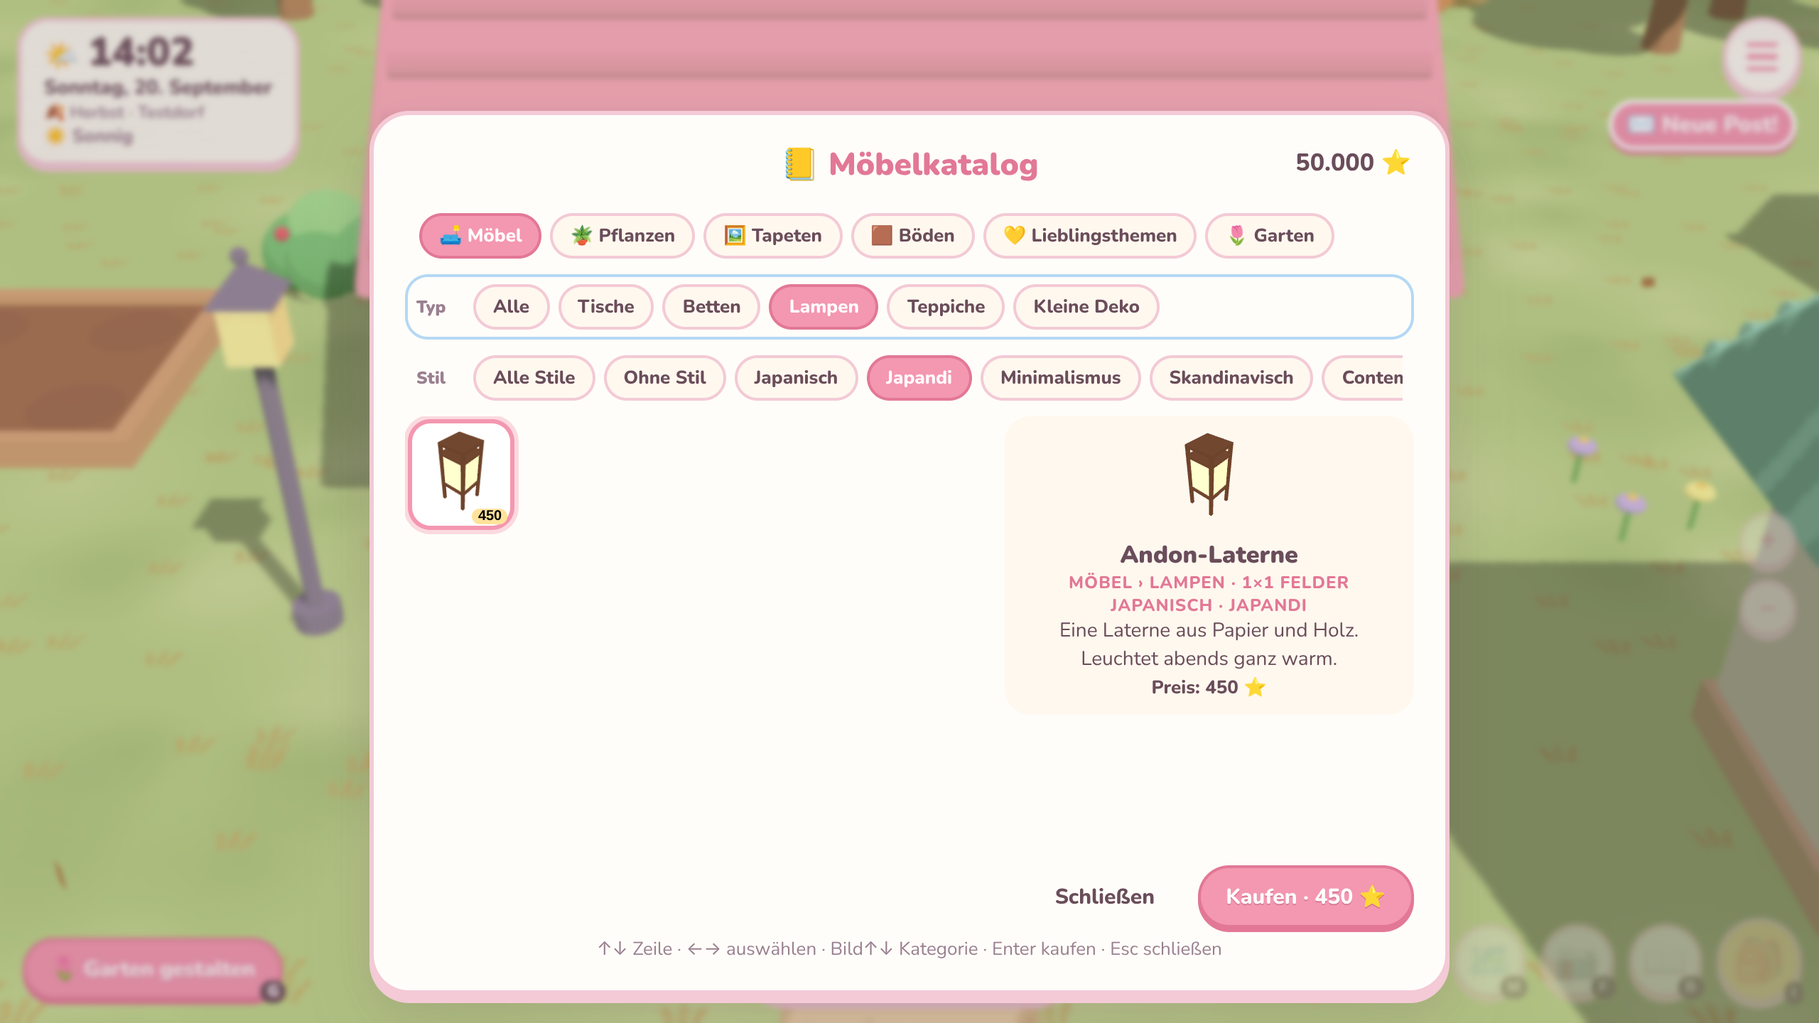
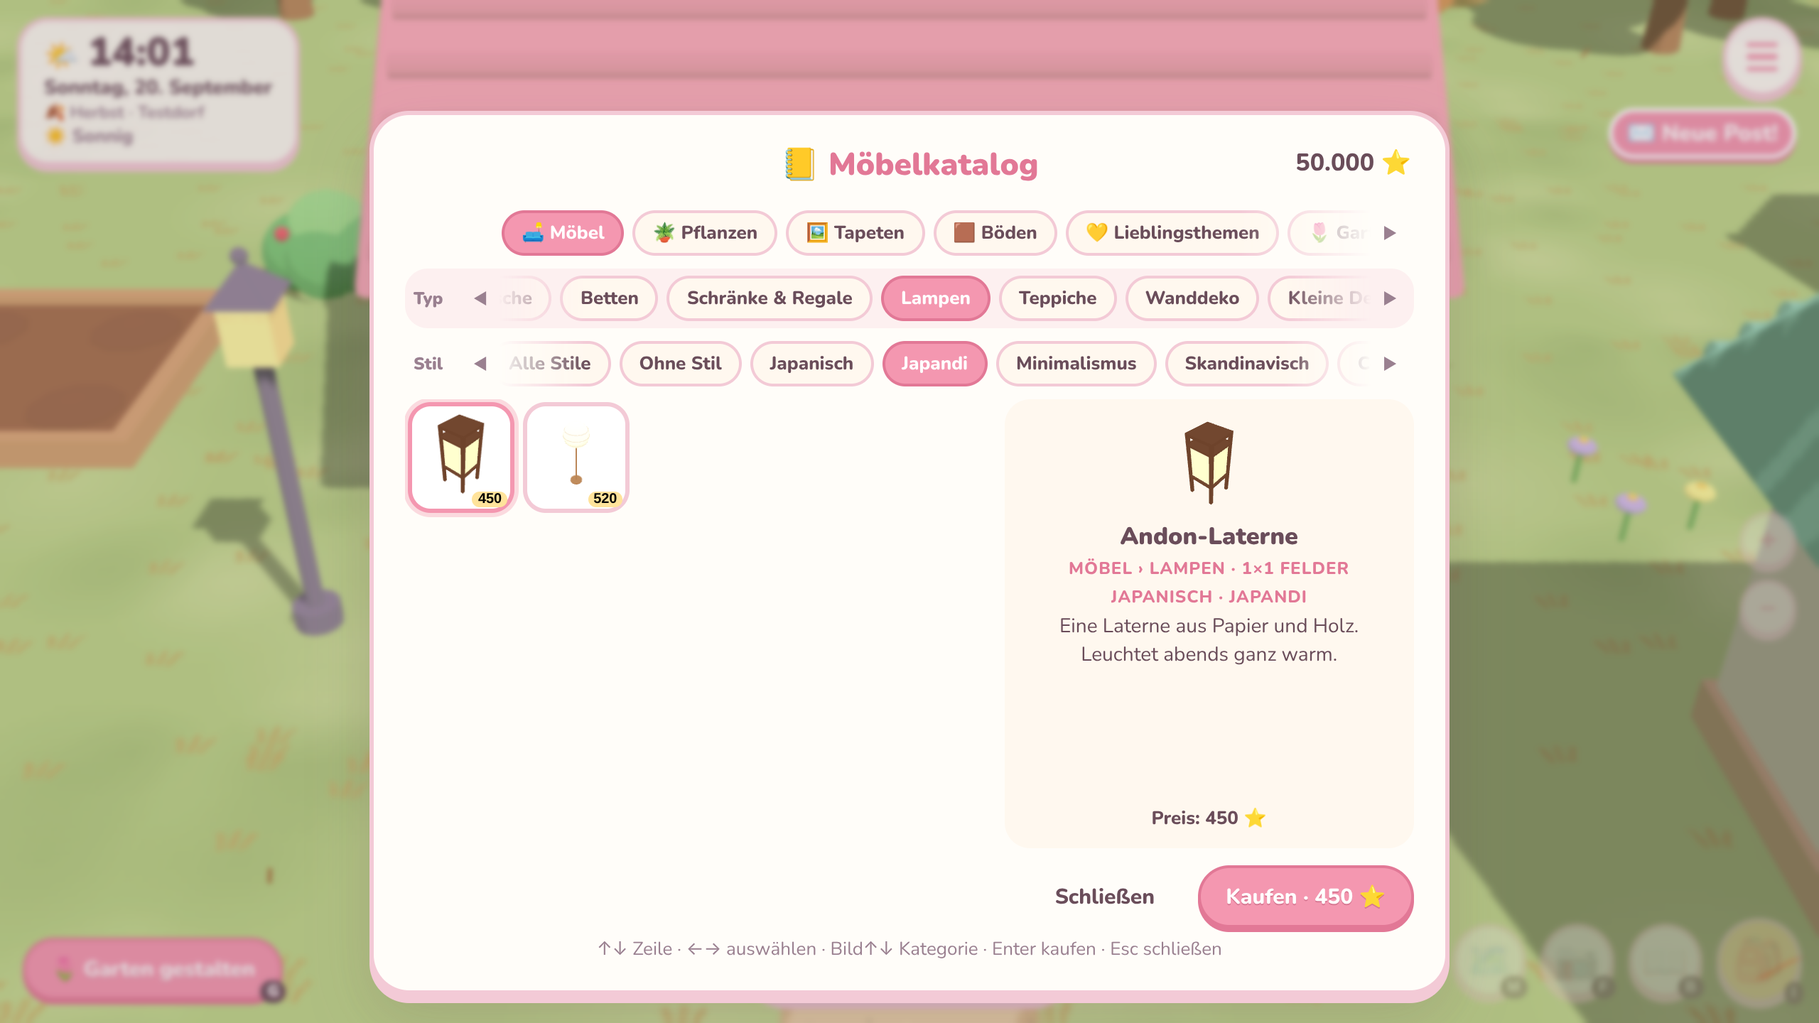
Katalog-Feinschliff: feste Anordnung, dezente Markierung, ◀ ▶ statt Scrollbalken (#121)
- Typ- und Stilzeile bleiben immer stehen (ausgegraut, wenn leer)
- Detailspalte mit festen Zeilen (Text gekürzt, Farbplatz reserviert)
- aktive Zeile zart in der Akzentfarbe hinterlegt statt hellblau umrandet
- Chip-Zeilen ohne Scrollbalken: Pfeile am Rand, Ausblenden, aktiver Chip zentriert
- Stil-Chips zeigen ihre Kurzbeschreibung als Tooltip

Claude-Session: https://claude.ai/code/session_01ThTYhPHTkGtFy4ue8CC8z3

diff --git a/src/ui/CatalogPanel.tsx b/src/ui/CatalogPanel.tsx
@@ -5,6 +5,7 @@
  * Alles geht mit den Pfeiltasten (Zustandsmaschine in `catalogNav.ts`), mit der Maus genauso.
  * Gekauftes landet in der Tasche – oder beim Einrichten gleich in Linas Hand.
  */
+import type { ComponentChildren } from 'preact';
 import { useEffect, useLayoutEffect, useRef, useState } from 'preact/hooks';
 import { CATEGORY_BY_ID, DESIGN_STYLE_BY_ID } from '../data/catalog';
 import { CURRENCY } from '../data/items';
@@ -117,11 +118,13 @@ export function CatalogPanel({ session }: { session: Session }) {
       if (n > 0 && n !== cols) setCols(n);
       g.querySelector<HTMLElement>('.catalog-cell.selected')?.scrollIntoView({ block: 'nearest' });
     }
-    for (const el of document.querySelectorAll<HTMLElement>('.catalog .filter-strip .chip.active')) el.scrollIntoView({ block: 'nearest', inline: 'nearest' });
+    for (const el of document.querySelectorAll<HTMLElement>('.catalog .filter-strip .chip.active')) el.scrollIntoView({ block: 'nearest', inline: 'center' });
   });
 
   const pick = (patch: Partial<NavState>) => setNav({ ...nav, ...patch });
-  const rowClass = (r: NavRow) => `catalog-row ${nav.row === r ? 'nav-active' : ''}`;
+  const rowClass = (r: NavRow, empty = false) => `catalog-row ${nav.row === r ? 'nav-active' : ''} ${empty ? 'empty' : ''}`;
+  const noStyleHere = styles.length === 0;
+  const noTypeHere = types.length === 0;
 
   return (
     <div class="modal-layer" onPointerUp={(e) => e.target === e.currentTarget && close()}>
@@ -129,38 +132,44 @@ export function CatalogPanel({ session }: { session: Session }) {
         <h2 class="card-title">📒 Möbelkatalog</h2>
         <span class="money catalog-money">{formatMoney(money)}</span>
         <div class={`${rowClass('kategorie')} row-kat`}>
-          <div class="filter-strip" onWheel={wheelSideways}>
+          <span class="row-label" />
+          <ChipStrip>
             {categories.map((c) => (
               <button key={c} tabIndex={-1} class={`chip ${filter.category === c ? 'active' : ''}`} onClick={() => pick({ row: 'kategorie', category: c, type: 'alle', index: 0, variant: 0 })}>
                 {CATEGORY_BY_ID[c].icon} {CATEGORY_BY_ID[c].name}
               </button>
             ))}
-          </div>
+          </ChipStrip>
         </div>
-        {types.length > 0 && (
-          <div class={`${rowClass('typ')} row-typ`}>
-            <span class="row-label">Typ</span>
-            <div class="filter-strip" onWheel={wheelSideways}>
-              {types.map((t) => (
+        {/* Typ- und Stil-Zeile stehen immer da – gibt es nichts zu wählen, sind sie ausgegraut (das Fenster springt nicht) */}
+        <div class={`${rowClass('typ', noTypeHere)} row-typ`}>
+          <span class="row-label">Typ</span>
+          <ChipStrip>
+            {noTypeHere ? (
+              <span class="chip small disabled">{CATEGORY_BY_ID[filter.category].types.length === 0 ? 'Keine Typen' : 'Nur ein Typ'}</span>
+            ) : (
+              types.map((t) => (
                 <button key={t} tabIndex={-1} class={`chip small ${filter.type === t ? 'active' : ''}`} onClick={() => pick({ row: 'typ', type: t, index: 0, variant: 0 })}>
                   {typeLabel(filter.category, t)}
                 </button>
-              ))}
-            </div>
-          </div>
-        )}
-        {styles.length > 0 && (
-          <div class={`${rowClass('stil')} row-stil`}>
-            <span class="row-label">Stil</span>
-            <div class="filter-strip" onWheel={wheelSideways}>
-              {styles.map((s: StyleFilter) => (
-                <button key={s} tabIndex={-1} class={`chip small ${filter.style === s ? 'active' : ''}`} onClick={() => pick({ row: 'stil', style: s, index: 0, variant: 0 })}>
-                  {styleFilterLabel(s)}
+              ))
+            )}
+          </ChipStrip>
+        </div>
+        <div class={`${rowClass('stil', noStyleHere)} row-stil`}>
+          <span class="row-label">Stil</span>
+          <ChipStrip>
+            {noStyleHere ? (
+              <span class="chip small disabled">Hier ohne Stil</span>
+            ) : (
+              styles.map((st: StyleFilter) => (
+                <button key={st} tabIndex={-1} class={`chip small ${filter.style === st ? 'active' : ''}`} title={st !== 'alle' && st !== 'ohne' ? DESIGN_STYLE_BY_ID[st].blurb : undefined} onClick={() => pick({ row: 'stil', style: st, index: 0, variant: 0 })}>
+                  {styleFilterLabel(st)}
                 </button>
-              ))}
-            </div>
-          </div>
-        )}
+              ))
+            )}
+          </ChipStrip>
+        </div>
         <div ref={gridRef} class={`book-grid catalog-grid ${nav.row === 'raster' ? 'nav-active' : ''}`}>
           {list.length === 0 && <p class="soft center catalog-empty">Hier gibt es gerade nichts – schau in einer anderen Ecke des Katalogs!</p>}
           {list.map((e, i) => (
@@ -170,35 +179,22 @@ export function CatalogPanel({ session }: { session: Session }) {
             </button>
           ))}
         </div>
-        <div class="item-detail">
-          {sel && v ? (
-            <>
-              <img src={itemIconUrl(v.itemId, 96)} alt="" />
-              <div>
-                <div class="item-name">{sel.name}</div>
-                <div class="item-cat">
-                  {CATEGORY_BY_ID[sel.meta.category].name}
-                  {sel.meta.type ? ` › ${typeLabel(sel.meta.category, sel.meta.type)}` : ''}
-                  {sel.size ? ` · ${sel.size}` : ''}
-                </div>
-                <div class="item-cat soft">{styleLine(sel)}</div>
-                <div class="item-desc">{sel.description}</div>
-                {sel.variants.length > 1 && (
-                  <div class={`variant-row ${nav.row === 'farbe' ? 'nav-active' : ''}`}>
-                    {sel.variants.map((x, i) => (
-                      <button key={x.itemId} tabIndex={-1} class={`swatch ${i === nav.variant ? 'active' : ''}`} style={{ background: x.color ?? undefined }} title={x.label} aria-label={x.label} onClick={() => pick({ row: 'farbe', variant: i })} />
-                    ))}
-                    <span class="soft">{v.label}</span>
-                  </div>
-                )}
-                <div class="item-price">
-                  Preis: {sel.price} {CURRENCY.icon}
-                </div>
-              </div>
-            </>
-          ) : (
-            <p class="soft center">Such dir etwas Schönes aus! Gekauftes kommt in deine Tasche – oder, wenn du gerade einrichtest, direkt in deine Hand.</p>
-          )}
+        {/* Feste Anordnung: Bild, Name, Ort, Stil, Text (feste Höhe), Farben (Platz bleibt frei), Preis */}
+        <div class="item-detail catalog-detail">
+          <img src={v ? itemIconUrl(v.itemId, 96) : undefined} alt="" style={{ visibility: v ? 'visible' : 'hidden' }} />
+          <div class="detail-name item-name">{sel ? sel.name : 'Such dir etwas Schönes aus!'}</div>
+          <div class="detail-line item-cat">
+            {sel ? `${CATEGORY_BY_ID[sel.meta.category].name}${sel.meta.type ? ` › ${typeLabel(sel.meta.category, sel.meta.type)}` : ''}${sel.size ? ` · ${sel.size}` : ''}` : ' '}
+          </div>
+          <div class="detail-line item-cat soft">{sel ? styleLine(sel) : ' '}</div>
+          <div class="detail-desc item-desc">{sel ? sel.description : 'Gekauftes kommt in deine Tasche – oder, wenn du gerade einrichtest, direkt in deine Hand.'}</div>
+          <div class={`variant-row ${nav.row === 'farbe' ? 'nav-active' : ''}`} style={{ visibility: sel && sel.variants.length > 1 ? 'visible' : 'hidden' }}>
+            {(sel && sel.variants.length > 1 ? sel.variants : [{ itemId: '-', label: '', color: null }]).map((x, i) => (
+              <button key={x.itemId} tabIndex={-1} class={`swatch ${i === nav.variant ? 'active' : ''}`} style={{ background: x.color ?? undefined }} title={x.label} aria-label={x.label} onClick={() => pick({ row: 'farbe', variant: i })} />
+            ))}
+            <span class="soft">{v && sel && sel.variants.length > 1 ? v.label : ''}</span>
+          </div>
+          <div class="item-price">{sel ? `Preis: ${sel.price} ${CURRENCY.icon}` : ' '}</div>
         </div>
         <div class="card-actions">
           <button class="btn ghost" onClick={close}>
@@ -210,6 +206,44 @@ export function CatalogPanel({ session }: { session: Session }) {
         </div>
         <div class="catalog-hint soft small-text">↑↓ Zeile · ←→ auswählen · Bild↑↓ Kategorie · Enter kaufen · Esc schließen</div>
       </div>
+    </div>
+  );
+}
+
+/**
+ * Eine Chip-Zeile ohne sichtbaren Scrollbalken: Geht sie über den Rand, erscheinen ◀ ▶ (Klick blättert),
+ * die Kante blendet sanft aus. Mausrad und Pfeiltasten (aktiver Chip wird eingeblendet) funktionieren weiter.
+ */
+function ChipStrip({ children }: { children: ComponentChildren }) {
+  const ref = useRef<HTMLDivElement>(null);
+  const [edge, setEdge] = useState({ left: false, right: false });
+  const update = () => {
+    const el = ref.current;
+    if (!el) return;
+    const left = el.scrollLeft > 2;
+    const right = el.scrollLeft + el.clientWidth < el.scrollWidth - 2;
+    if (left !== edge.left || right !== edge.right) setEdge({ left, right });
+  };
+  useLayoutEffect(update);
+  useEffect(() => {
+    const el = ref.current;
+    if (!el || typeof ResizeObserver === 'undefined') return;
+    const ro = new ResizeObserver(() => update());
+    ro.observe(el);
+    return () => ro.disconnect();
+  });
+  const page = (dir: number) => ref.current?.scrollBy({ left: dir * ref.current.clientWidth * 0.7, behavior: 'smooth' });
+  return (
+    <div class={`chip-strip ${edge.left ? 'more-left' : ''} ${edge.right ? 'more-right' : ''}`}>
+      <button class="strip-arrow left" tabIndex={-1} aria-label="zurückblättern" style={{ visibility: edge.left ? 'visible' : 'hidden' }} onClick={() => page(-1)}>
+        ◀
+      </button>
+      <div ref={ref} class="filter-strip" onWheel={wheelSideways} onScroll={update}>
+        {children}
+      </div>
+      <button class="strip-arrow right" tabIndex={-1} aria-label="weiterblättern" style={{ visibility: edge.right ? 'visible' : 'hidden' }} onClick={() => page(1)}>
+        ▶
+      </button>
     </div>
   );
 }

diff --git a/src/ui/ui.css b/src/ui/ui.css
@@ -1551,34 +1551,46 @@ body:has(.dialog-layer) .decor-bar {
 }
 .card.book.catalog > .item-detail {
   flex: 0 0 auto;
-  min-height: 118px;
-  max-height: 128px;
-  overflow-y: auto;
+  overflow: hidden;
 }
 
 /* Filterzeilen: Kategorie, Typ, Stil – jede Zeile bleibt einzeilig und scrollt bei Bedarf seitlich */
 .catalog-row {
   display: flex;
   align-items: center;
-  gap: 8px;
+  gap: 6px;
   min-width: 0;
   padding: 3px 6px;
   margin-bottom: 4px;
-  border: 2.5px solid transparent;
   border-radius: 16px;
+  /* aktive Zeile: nur ein zarter Hauch der Akzentfarbe statt eines Rahmens */
+  background: transparent;
+  transition: background 0.15s;
 }
 .catalog-row.nav-active,
 .variant-row.nav-active {
-  border-color: var(--ui-sky);
+  background: color-mix(in srgb, var(--ui-accent) 12%, transparent);
+}
+.catalog-row.empty .row-label,
+.catalog-row.empty .chip {
+  opacity: 0.45;
+}
+.chip.disabled {
+  cursor: default;
 }
 .variant-row {
-  border: 2.5px solid transparent;
   border-radius: 999px;
   padding: 2px 6px;
 }
 .catalog-grid.nav-active {
-  outline: 3px solid var(--ui-sky);
-  outline-offset: 2px;
+  box-shadow: 0 4px 0 var(--ui-border), 0 0 0 3px color-mix(in srgb, var(--ui-accent) 22%, transparent);
+}
+.chip-strip {
+  display: flex;
+  align-items: center;
+  flex: 1 1 auto;
+  min-width: 0;
+  gap: 2px;
 }
 .filter-strip {
   display: flex;
@@ -1586,8 +1598,37 @@ body:has(.dialog-layer) .decor-bar {
   flex: 1 1 auto;
   min-width: 0;
   overflow-x: auto;
-  scrollbar-width: thin;
+  scrollbar-width: none;
   padding: 2px;
+}
+.filter-strip::-webkit-scrollbar {
+  display: none;
+}
+/* sanftes Ausblenden an der Kante, an der es weitergeht */
+.chip-strip.more-right .filter-strip {
+  mask-image: linear-gradient(to right, #000 85%, transparent);
+}
+.chip-strip.more-left .filter-strip {
+  mask-image: linear-gradient(to left, #000 85%, transparent);
+}
+.chip-strip.more-left.more-right .filter-strip {
+  mask-image: linear-gradient(to right, transparent, #000 10%, #000 90%, transparent);
+}
+.strip-arrow {
+  flex: none;
+  width: 22px;
+  height: 22px;
+  border: none;
+  border-radius: 50%;
+  background: transparent;
+  color: var(--ui-text-soft);
+  font-size: 11px;
+  cursor: pointer;
+  padding: 0;
+}
+.strip-arrow:hover {
+  background: color-mix(in srgb, var(--ui-accent) 15%, transparent);
+  color: var(--ui-text);
 }
 .row-label {
   flex: none;
@@ -1599,6 +1640,47 @@ body:has(.dialog-layer) .decor-bar {
 .catalog-empty {
   grid-column: 1 / -1;
   padding: 16px;
+}
+.catalog-detail {
+  /* schmal: Bild links, rechts feste Zeilen (Name, Ort, Stil, Text, Farben + Preis) */
+  display: grid !important;
+  grid-template-columns: 64px minmax(0, 1fr);
+  grid-template-rows: 22px 16px 16px 2.9em 34px;
+  column-gap: 12px;
+  row-gap: 1px;
+  align-items: center;
+}
+.catalog-detail > img {
+  grid-row: 1 / -1;
+  grid-column: 1;
+}
+.catalog-detail > :not(img) {
+  grid-column: 2;
+}
+.catalog-detail .item-price {
+  grid-row: 5;
+  justify-self: end;
+}
+.catalog-detail .variant-row {
+  grid-row: 5;
+}
+.catalog-detail .detail-name,
+.catalog-detail .detail-line {
+  max-width: 100%;
+  white-space: nowrap;
+  overflow: hidden;
+  text-overflow: ellipsis;
+}
+.catalog-detail .detail-desc {
+  align-self: start;
+  display: -webkit-box;
+  -webkit-line-clamp: 2;
+  -webkit-box-orient: vertical;
+  overflow: hidden;
+  line-height: 1.4;
+}
+.catalog-detail .variant-row {
+  margin: 0;
 }
 .catalog-money {
   position: absolute;
@@ -1652,11 +1734,30 @@ body:has(.dialog-layer) .decor-bar {
     grid-area: detail;
     margin-top: 0;
     align-self: start;
-    flex-direction: column;
-    text-align: center;
     max-height: none;
     min-height: 0;
-    overflow-y: auto;
+    overflow: hidden;
+  }
+  /* breit: alles untereinander in festen Zeilen – nichts verrutscht beim Durchblättern */
+  .catalog-detail {
+    grid-template-columns: minmax(0, 1fr);
+    grid-template-rows: 72px 24px 18px 18px 5.6em 38px 24px;
+    justify-items: center;
+    text-align: center;
+    row-gap: 2px;
+  }
+  .catalog-detail > img,
+  .catalog-detail > :not(img) {
+    grid-column: 1;
+    grid-row: auto;
+  }
+  .catalog-detail .variant-row,
+  .catalog-detail .item-price {
+    grid-row: auto;
+    justify-self: center;
+  }
+  .catalog-detail .detail-desc {
+    -webkit-line-clamp: 4;
   }
   .card.book.catalog > .card-actions {
     grid-area: actions;

diff --git a/docs/game-mechanics.md b/docs/game-mechanics.md
@@ -207,7 +207,7 @@ Wetter und Feste laufen nach echter Zeit.
 - **Einfarbige Tapeten & Parkett (Nov. 2026):** 17 **einfarbige Wände** (Weiß, Sand, Grau, Rosa, Pfirsich, Butter, Mint, Salbei, Himmel, Flieder, Taupe, Graublau, Petrol, Waldgrün, Bordeaux, Nachtblau, Schwarz; Muster `flach`) und 13 **Parkettvarianten** (Chevron, Fischgrät in Weiß/Nussbaum/Ebenholz, Würfelparkett, Schiffsboden, Tafelparkett; Muster `chevron`, `flecht`, `schiff`, `tafel` in `gfx/interior.ts`, Daten in `data/furniture.ts`). Preise 250–450 ⭐ (Wände) bzw. 850–1 400 ⭐ (Parkett).
 - **Helle Böden & grafische Muster:** 11 weitere, **hellere und schlichtere Böden** (weiß gekalkte, Birken-, Ahorn-, Eschen- und hellgraue Dielen; Chevron Birke/Weiß, Fischgrät Birke, Schiffsboden Weiß, Tafelparkett Ahorn) sowie ein **Schwarz-Weiß-Zickzack-Boden** (`zickzack`), dazu die Tapeten **Roter Samtvorhang** (`vorhang`) und **Tannenwald** (`tannen`). Muster in `gfx/interior.ts`, Einträge in `data/furniture.ts`.
 - **Zusammenhängendes Haus (Haus-Grundriss Phase C):** Das Erdgeschoss ist **ein Grundriss**: Wohnzimmer vorne, Schlafzimmer dahinter, Wintergarten links, Küche rechts; Lina läuft ohne Umblenden durch die Türen (Details & Technik: [`haus-grundriss.md`](haus-grundriss.md)). Beim Einrichten (G) sieht man das ganze Stockwerk und kann in jedem Raum aufstellen. Die Kamera lässt sich dabei mit **WASD/Pfeilen oder per Maus ziehen** (Linksklick auf freie Fläche, ohne Möbel in der Hand; rechte/mittlere Taste immer) schwenken, das Mausrad zoomt. Dach und Keller sind Etagen mit Treppe.
-- **Möbelkatalog neu geordnet (Nov. 2026):** Drei Filterzeilen statt einer langen Stil-Leiste: **Kategorie** (Möbel, Pflanzen, Tapeten, Böden, Lieblingsthemen, Garten, im Winter Winterzauber), **Typ** (z. B. Sofas & Sessel, Lampen, Teppiche; je Kategorie eigene Liste) und **Einrichtungsstil**. Ein Stück darf **mehrere Stile** haben (Holzregal: Skandinavisch + Minimalismus) oder **keinen** („Ohne Stil“: Pflanzen, Grundausstattung, Garten, Lieblingsthemen). Der Stil bleibt beim Kategoriewechsel stehen (Japandi-Möbel → Japandi-Böden); Typen/Stile ohne Treffer werden gar nicht erst angeboten. **16 Stile:** Japanisch, Japandi, Minimalismus, Skandinavisch, Contemporary (früher „Modern“), Mid-Century-Modern (inkl. Bauhaus), Cottagecore, Retro-Oma-Chic, Französisches Bistro, Art déco, Memphis, Dark Academia, Brutalismus, Industrial, Space Age, Cyberpunk (Organic Modern und Mediterranean Modern bewusst nicht). Einige kommen mit Einzügen: **Olaf & Christin** → Minimalismus, Skandinavisch; **Jens** → Bistro, Art déco, Memphis; **Thalia** → Dark Academia, Brutalismus; **Lars** → Industrial; **Oli** → Space Age, Cyberpunk. Ein Stil-Chip erscheint erst, wenn der Stil frei ist **und** es Stücke dafür gibt; was schon im Katalog war, bleibt immer da (die Freischaltung hängt an der „Linie“ `FurnitureDef.style`, die Stil-Schilder filtern nur). **Tastatur:** ↑/↓ Zeile (im Raster zeilenweise), ←/→ Wert, Bild↑/↓ Kategorie, Enter kauft, Esc schließt – Lina und Kamera bleiben dabei stehen. Ordnung in `data/catalog.ts`, Filter in `game/catalog.ts`, Tastatur-Zustandsmaschine `ui/catalogNav.ts`, Bestandsaufnahme & Lücken je Stil in [`katalog-ueberarbeitung.md`](katalog-ueberarbeitung.md). Kein neues Speicherformat.
+- **Möbelkatalog neu geordnet (Nov. 2026):** Drei Filterzeilen statt einer langen Stil-Leiste: **Kategorie** (Möbel, Pflanzen, Tapeten, Böden, Lieblingsthemen, Garten, im Winter Winterzauber), **Typ** (z. B. Sofas & Sessel, Lampen, Teppiche; je Kategorie eigene Liste) und **Einrichtungsstil**. Ein Stück darf **mehrere Stile** haben (Holzregal: Skandinavisch + Minimalismus) oder **keinen** („Ohne Stil“: Pflanzen, Grundausstattung, Garten, Lieblingsthemen). Der Stil bleibt beim Kategoriewechsel stehen (Japandi-Möbel → Japandi-Böden); Typen/Stile ohne Treffer werden gar nicht erst angeboten. **16 Stile:** Japanisch, Japandi, Minimalismus, Skandinavisch, Contemporary (früher „Modern“), Mid-Century-Modern (inkl. Bauhaus), Cottagecore, Retro-Oma-Chic, Französisches Bistro, Art déco, Memphis, Dark Academia, Brutalismus, Industrial, Space Age, Cyberpunk (Organic Modern und Mediterranean Modern bewusst nicht). Einige kommen mit Einzügen: **Olaf & Christin** → Minimalismus, Skandinavisch; **Jens** → Bistro, Art déco, Memphis; **Thalia** → Dark Academia, Brutalismus; **Lars** → Industrial; **Oli** → Space Age, Cyberpunk. Ein Stil-Chip erscheint erst, wenn der Stil frei ist **und** es Stücke dafür gibt; was schon im Katalog war, bleibt immer da (die Freischaltung hängt an der „Linie“ `FurnitureDef.style`, die Stil-Schilder filtern nur). **Tastatur:** ↑/↓ Zeile (im Raster zeilenweise), ←/→ Wert, Bild↑/↓ Kategorie, Enter kauft, Esc schließt – Lina und Kamera bleiben dabei stehen. Ordnung in `data/catalog.ts`, Filter in `game/catalog.ts`, Tastatur-Zustandsmaschine `ui/catalogNav.ts`, Bestandsaufnahme & Lücken je Stil in [`katalog-ueberarbeitung.md`](katalog-ueberarbeitung.md). Kein neues Speicherformat. **Feinschliff:** Typ- und Stilzeile stehen immer da (ausgegraut, wenn es nichts zu wählen gibt), die Detailspalte hat feste Zeilen (Name, Ort, Stil, Text, Farben, Preis), damit sich das Auge nicht neu orientieren muss; die aktive Zeile ist nur zart hinterlegt; statt Scrollbalken gibt es ◀ ▶ am Rand mit sanftem Ausblenden (Mausrad geht weiter), der aktive Chip rückt in die Mitte.
 - **Neue Stile – Teil 1: Japandi, Skandinavisch, Minimalismus (Nov. 2026):** 15 neue Möbel, 2 Tapeten, 1 Boden. **Japandi** (sofort): Daybed, Lattenregal, Papierkugel-Leuchte, Bild „Eine Linie“, Lehmputz- und Holzlatten-Wand (neue Muster `putz`, `latten` in `gfx/interior.ts`). **Skandinavisch** (mit Olaf & Christin): Skandi-Sofa, Schaukelstuhl, runder Eichentisch, Eichenstuhl, Rautenteppich, Schaffell. **Minimalismus** (mit Olaf & Christin): Kubus-Sofa, Plattformbett, Linienleuchte, Plattentisch, Wollteppich, Mikrozement-Boden. Die neuen Stücke haben ihren Stil als Linie (`FurnitureDef.style`), dadurch erscheinen sie mit dem passenden Einzug; viele tragen zusätzlich Nachbarstile (z. B. Eichenstuhl: Skandinavisch + Japandi). Preise im Rahmen der bestehenden Stile (300–2000 ⭐).
 - **Neue Stile – Teil 2: Dark Academia, Art déco, Industrial (Nov. 2026):** 13 neue Möbel, 2 Tapeten. **Dark Academia** (mit Thalia): Bücherwand, Sekretär, Chesterfield-Sofa, Alte Weltkarte (ausgedachte Karte als Canvas-Textur), Dunkle Holzvertäfelung. **Art déco** (mit Jens): Muschelsessel, Etagen-Stehlampe, Barschrank, Fächerteppich, Fächer-Tapete (Muster `faecher`). **Industrial** (mit Lars): Vintage-Ledersofa, Rohrregal, Fabrik-Stehleuchte, Verwaschener Teppich, Bahnhofsuhr. Preise 650–2300 ⭐.
 - **Mehr Farbvarianten:** Auch Sofa, Bett, Loungesofa, Sitzsack, Zabuton & Co. haben jetzt 4–7 Farben, dazu neu: Stehlampe, Holzregal, Wandregal, Landhaustisch, Häkel- und Orientteppich, Nierentisch, Fransenlampe, Bugholzstuhl, Barhocker, Bistro-Tischlampe, Gartenbank. Die Farbe wechselt man beim Einrichten kostenlos mit **V oder 1–9** (Pipette `C` übernimmt sie). Technik: `FurnitureDef.baseVariant` – die ursprüngliche Farbe behält die alte Gegenstands-ID (`stehlampe`), die übrigen heißen `stehlampe-weiss` …; dadurch bleiben Spielstände, Rezepte und Wünsche gültig. Nur Katalogmöbel bekommen Farben (Geschenke/Handgemachtes nicht, sonst wären Farben unerreichbar).
